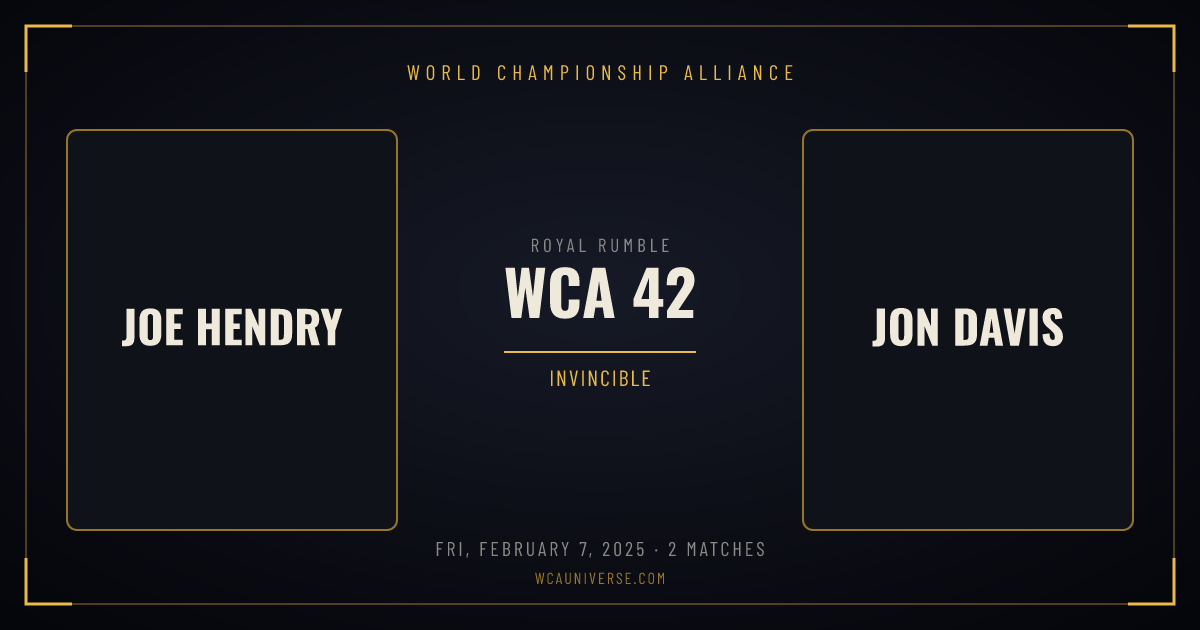
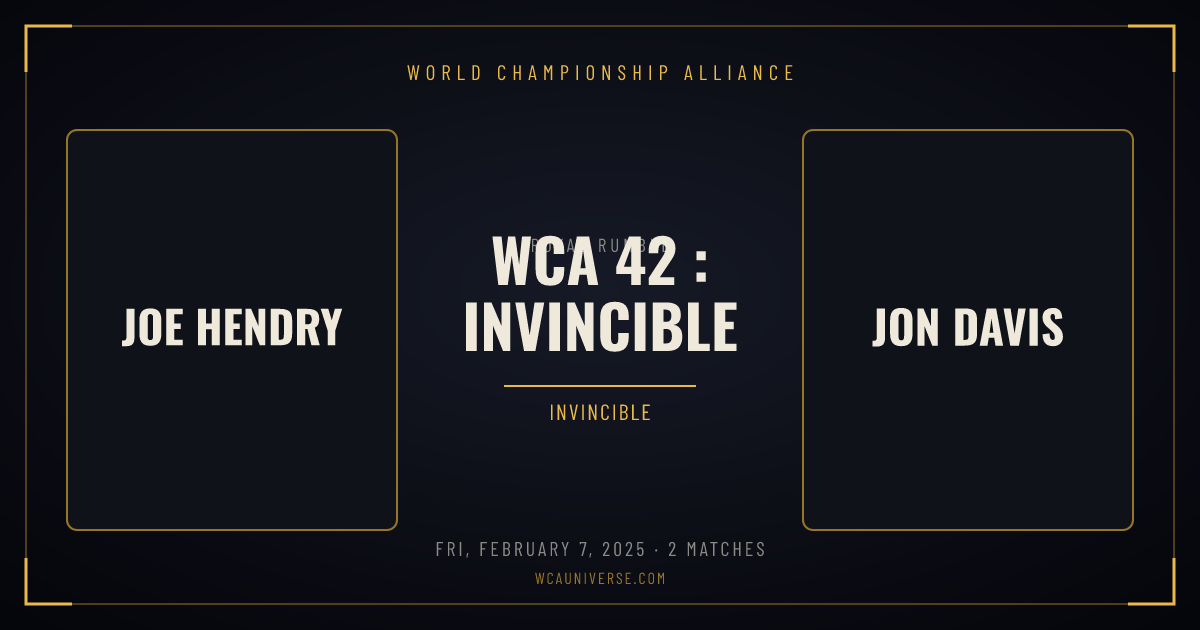
Rebuild share pages

Changed region(s): [[0.37, 0.3619, 0.6167, 0.6635]]

diff --git a/s/post/76/index.html b/s/post/76/index.html
@@ -1,0 +1,60 @@
+<!doctype html>
+<html lang="en">
+<head>
+<meta charset="utf-8">
+<meta name="viewport" content="width=device-width,initial-scale=1">
+<title>WCA Storyline, World Championship Alliance</title>
+<meta name="description" content="Whoever “Patrick” is can you please stop calling my phone. I don’t know a Patrick. I’m waiting for a very important phone call and YOU are ruining it.">
+<link rel="canonical" href="https://wcauniverse.com/s/post/76/">
+
+<meta property="og:type" content="article">
+<meta property="og:site_name" content="World Championship Alliance">
+<meta property="og:title" content="WCA Storyline">
+<meta property="og:description" content="Whoever “Patrick” is can you please stop calling my phone. I don’t know a Patrick. I’m waiting for a very important phone call and YOU are ruining it.">
+<meta property="og:url" content="https://wcauniverse.com/s/post/76/">
+<meta property="og:image" content="https://wcauniverse.com/share/wca-card.png">
+<meta property="og:image:alt" content="WCA Storyline">
+
+<meta name="twitter:card" content="summary_large_image">
+<meta name="twitter:title" content="WCA Storyline">
+<meta name="twitter:description" content="Whoever “Patrick” is can you please stop calling my phone. I don’t know a Patrick. I’m waiting for a very important phone call and YOU are ruining it.">
+<meta name="twitter:image" content="https://wcauniverse.com/share/wca-card.png">
+
+<link rel="icon" href="https://wcauniverse.com/icons/icon-192.png">
+<style>
+  :root{--gold:#E9B949;--bg:#0d0d0f;--txt:#f2f2f0;--muted:#8a8a86;--line:#2a2a2e}
+  *{box-sizing:border-box}
+  body{margin:0;min-height:100vh;display:grid;place-items:center;padding:28px;
+       background:var(--bg);color:var(--txt);
+       font-family:'Barlow',system-ui,-apple-system,'Segoe UI',sans-serif;}
+  .card{max-width:640px;width:100%;text-align:center}
+  .kicker{font-size:11px;letter-spacing:2.6px;text-transform:uppercase;color:var(--gold);margin-bottom:14px}
+  h1{font-family:'Oswald',Impact,sans-serif;font-weight:700;font-size:clamp(26px,5vw,40px);
+     line-height:1.06;text-transform:uppercase;margin:0 0 14px}
+  p{color:var(--muted);line-height:1.65;margin:0 0 22px}
+  img.hero{width:100%;max-height:320px;object-fit:cover;border:1px solid var(--line);
+           border-radius:12px;margin-bottom:22px}
+  a.go{display:inline-block;padding:13px 26px;border:1px solid var(--gold);border-radius:8px;
+       color:var(--gold);text-decoration:none;font-family:'Oswald',sans-serif;font-size:14px;
+       letter-spacing:1.6px;text-transform:uppercase}
+  a.go:hover{background:rgba(233,185,73,.12)}
+  .wait{margin-top:18px;font-size:12px;color:#55534e}
+</style>
+</head>
+<body>
+  <main class="card">
+    <div class="kicker">Social</div>
+    <h1>WCA Storyline</h1>
+    
+    <p>Whoever “Patrick” is can you please stop calling my phone. I don’t know a Patrick. I’m waiting for a very important phone call and YOU are ruining it.</p>
+    <a class="go" href="https://wcauniverse.com/feed?post=76">Open on WCA</a>
+    <div class="wait">Taking you there…</div>
+  </main>
+<script>
+  // Humans get forwarded to the exact item. Crawlers don't run this and read
+  // the markup above instead, which is the whole point.
+  location.replace("https://wcauniverse.com/feed?post=76");
+</script>
+<noscript><meta http-equiv="refresh" content="0;url=https://wcauniverse.com/feed?post=76"></noscript>
+</body>
+</html>

diff --git a/s/event/12/index.html b/s/event/12/index.html
@@ -3,21 +3,21 @@
 <head>
 <meta charset="utf-8">
 <meta name="viewport" content="width=device-width,initial-scale=1">
-<title>WCA 42, World Championship Alliance</title>
-<meta name="description" content="WCA 42, 2 matches. Full card, results and final standings.">
+<title>WCA 42 : Invincible, World Championship Alliance</title>
+<meta name="description" content="WCA 42 : Invincible, 2 matches. Full card, results and final standings.">
 <link rel="canonical" href="https://wcauniverse.com/s/event/12/">
 
 <meta property="og:type" content="article">
 <meta property="og:site_name" content="World Championship Alliance">
-<meta property="og:title" content="WCA 42">
-<meta property="og:description" content="WCA 42, 2 matches. Full card, results and final standings.">
+<meta property="og:title" content="WCA 42 : Invincible">
+<meta property="og:description" content="WCA 42 : Invincible, 2 matches. Full card, results and final standings.">
 <meta property="og:url" content="https://wcauniverse.com/s/event/12/">
 <meta property="og:image" content="https://wcauniverse.com/s/event/12/card.png">
-<meta property="og:image:alt" content="WCA 42">
+<meta property="og:image:alt" content="WCA 42 : Invincible">
 
 <meta name="twitter:card" content="summary_large_image">
-<meta name="twitter:title" content="WCA 42">
-<meta name="twitter:description" content="WCA 42, 2 matches. Full card, results and final standings.">
+<meta name="twitter:title" content="WCA 42 : Invincible">
+<meta name="twitter:description" content="WCA 42 : Invincible, 2 matches. Full card, results and final standings.">
 <meta name="twitter:image" content="https://wcauniverse.com/s/event/12/card.png">
 
 <link rel="icon" href="https://wcauniverse.com/icons/icon-192.png">
@@ -44,9 +44,9 @@
 <body>
   <main class="card">
     <div class="kicker">Invincible</div>
-    <h1>WCA 42</h1>
-    <img class="hero" src="https://wcauniverse.com/s/event/12/card.png" alt="WCA 42">
-    <p>WCA 42, 2 matches. Full card, results and final standings.</p>
+    <h1>WCA 42 : Invincible</h1>
+    <img class="hero" src="https://wcauniverse.com/s/event/12/card.png" alt="WCA 42 : Invincible">
+    <p>WCA 42 : Invincible, 2 matches. Full card, results and final standings.</p>
     <a class="go" href="https://wcauniverse.com/archive?event=12">Open on WCA</a>
     <div class="wait">Taking you there…</div>
   </main>
